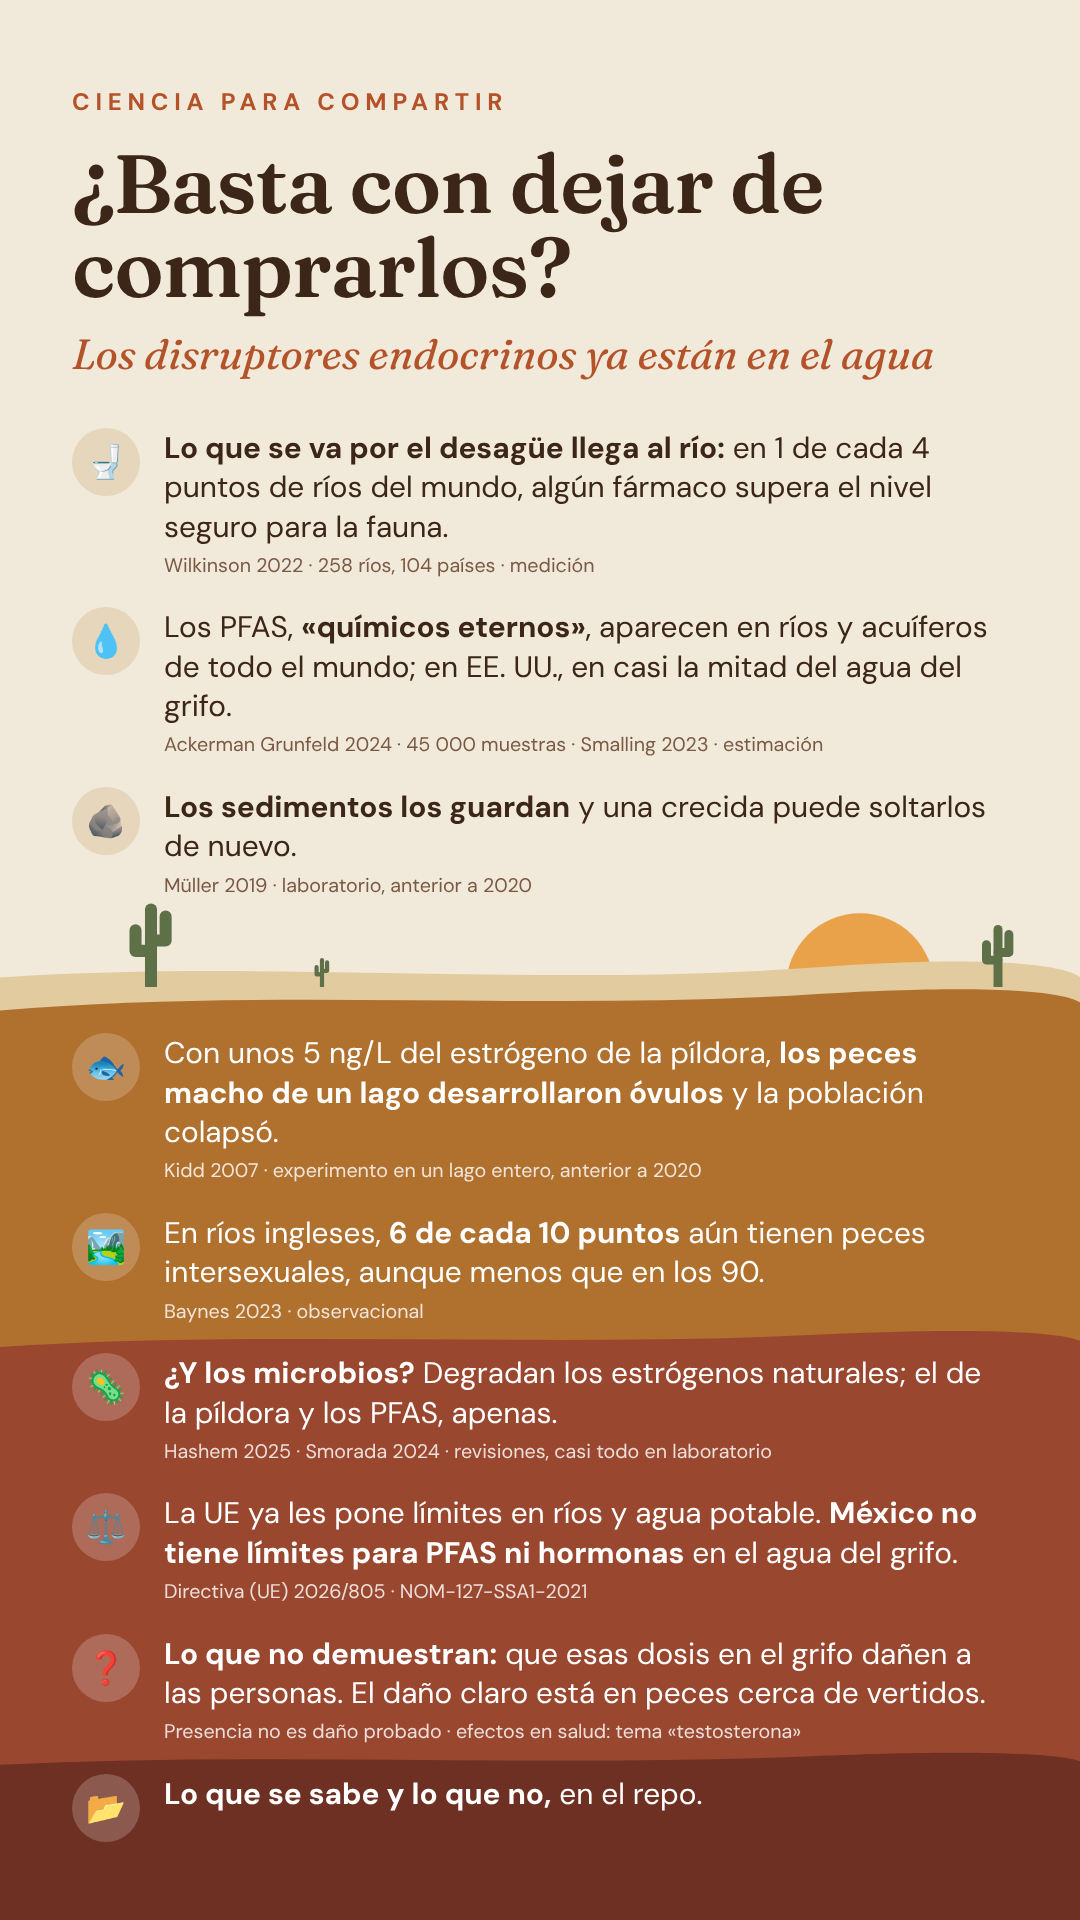
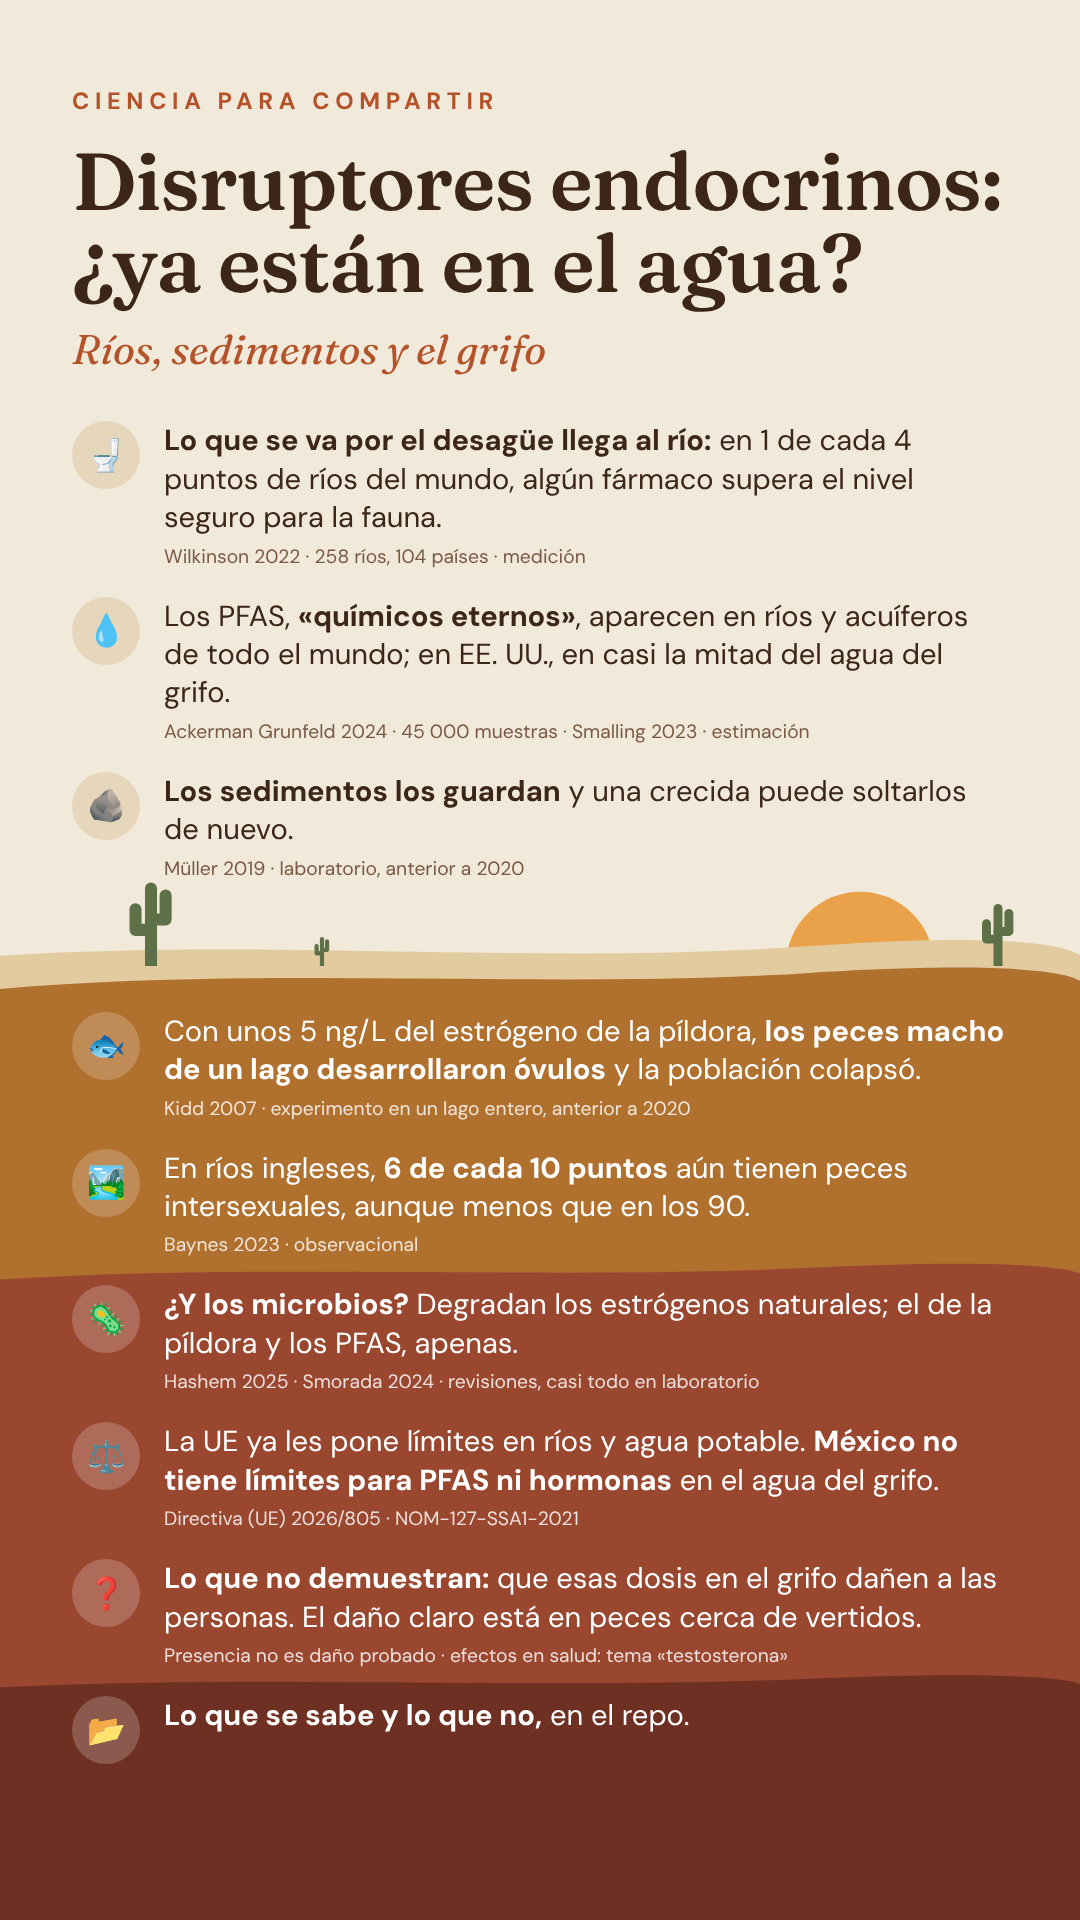
Título del tema del agua: nombra los disruptores endocrinos
«Disruptores endocrinos: ¿ya están en el agua?» en story, página de fuentes,
categoría, README y enlace desde el tema de salud (ES/EN/FR).

Claude-Session: https://claude.ai/code/session_01FjDMT77xfbXztiX46VBknY

Changed region(s): [[0.0, 0.0312, 1.0, 0.9688], [0.0611, 0.3125, 0.1222, 0.375]]

diff --git a/ciencia-ambiente/disruptores-agua/index.html b/ciencia-ambiente/disruptores-agua/index.html
@@ -27,7 +27,7 @@
         <button type="button" id="btn-fr" data-set="fr" aria-pressed="false">FR</button>
       </div>
     </div>
-    <h1><span class="es">¿Basta con dejar de comprarlos? <em>Las fuentes</em></span><span class="en">Is it enough to stop buying them? <em>The sources</em></span><span class="fr">Suffit-il d’arrêter de les acheter&nbsp;? <em>Les sources</em></span></h1>
+    <h1><span class="es">Disruptores endocrinos: ¿ya están en el agua? <em>Las fuentes</em></span><span class="en">Endocrine disruptors: are they already in the water? <em>The sources</em></span><span class="fr">Perturbateurs endocriniens&nbsp;: sont-ils déjà dans l’eau&nbsp;? <em>Les sources</em></span></h1>
     <p class="lede"><span class="es">Aunque dejes de comprar productos con disruptores endocrinos, lo que ya se usó sigue en ríos, sedimentos y agua potable. Aquí están los estudios detrás de cada idea de la story, qué tipo de evidencia es cada uno y lo que no demuestra. Cómo afectan a las personas lo contamos en <a href="../../ciencia-salud/disruptores-endocrinos/">¿Por qué hay una caída de la testosterona?</a></span><span class="en">Even if you stop buying products with endocrine disruptors, what has already been used stays in rivers, sediments and drinking water. Here are the studies behind each idea in the story, what kind of evidence each one is and what it doesn’t show. How they affect people is covered in <a href="../../ciencia-salud/disruptores-endocrinos/#en">Why is testosterone falling?</a></span><span class="fr">Même si vous arrêtez d’acheter des produits contenant des perturbateurs endocriniens, ce qui a déjà été utilisé reste dans les rivières, les sédiments et l’eau potable. Voici les études derrière chaque idée de la story, le type de preuve de chacune et ce qu’elle ne montre pas. Leurs effets sur l’humain sont traités dans <a href="../../ciencia-salud/disruptores-endocrinos/#fr">Pourquoi la testostérone baisse-t-elle&nbsp;?</a></span></p>
     <p class="reviewed"><span class="es">Evidencia revisada: oct 2026</span><span class="en">Evidence reviewed: Oct 2026</span><span class="fr">Preuves revues : oct. 2026</span></p>
   </header>
@@ -142,7 +142,7 @@
 
   <section>
     <div class="frame"><h2><span class="es">La story</span><span class="en">The story</span><span class="fr">La story</span></h2></div>
-    <img class="preview" src="preview.png" alt="Las stories en español, inglés y francés: ¿Basta con dejar de comprarlos? / Is it enough to stop buying them? / Suffit-il d’arrêter de les acheter ?" width="1600" height="900" loading="lazy">
+    <img class="preview" src="preview.png" alt="Las stories en español, inglés y francés: Disruptores endocrinos: ¿ya están en el agua? / Endocrine disruptors: are they already in the water? / Perturbateurs endocriniens : sont-ils déjà dans l’eau ?" width="1600" height="900" loading="lazy">
   </section>
 
   <footer>

diff --git a/ciencia-salud/disruptores-endocrinos/index.html b/ciencia-salud/disruptores-endocrinos/index.html
@@ -191,7 +191,7 @@
     </table>
     </div>
     <p class="note"><span class="es">En México, las cohortes ELEMENT y PROGRESS (Ciudad de México) han asociado la exposición prenatal a ftalatos con asma, función pulmonar y conducta infantil; en Brasil, la cohorte PIPA (Río de Janeiro) asoció un mayor consumo de ultraprocesados en el embarazo con más PFAS en el recién nacido. Son estudios observacionales.</span><span class="en">In Mexico, the ELEMENT and PROGRESS cohorts (Mexico City) have linked prenatal phthalate exposure to asthma, lung function and child behaviour; in Brazil, the PIPA cohort (Rio de Janeiro) linked higher ultra-processed food intake in pregnancy to more PFAS in newborns. These are observational studies.</span><span class="fr">Au Mexique, les cohortes ELEMENT et PROGRESS (Mexico) ont associé l’exposition prénatale aux phtalates à l’asthme, à la fonction pulmonaire et au comportement de l’enfant ; au Brésil, la cohorte PIPA (Rio de Janeiro) a associé une plus forte consommation d’ultra-transformés pendant la grossesse à davantage de PFAS chez le nouveau-né. Ce sont des études observationnelles.</span></p>
-    <p class="note"><span class="es">¿Y lo que ya está en ríos, sedimentos y agua potable? Lo contamos en <a href="../../ciencia-ambiente/disruptores-agua/">¿Basta con dejar de comprarlos?</a></span><span class="en">And what’s already in rivers, sediments and drinking water? See <a href="../../ciencia-ambiente/disruptores-agua/#en">Is it enough to stop buying them?</a></span><span class="fr">Et ce qui est déjà dans les rivières, les sédiments et l’eau potable ? Voir <a href="../../ciencia-ambiente/disruptores-agua/#fr">Suffit-il d’arrêter de les acheter&nbsp;?</a></span></p>
+    <p class="note"><span class="es">¿Y lo que ya está en ríos, sedimentos y agua potable? Lo contamos en <a href="../../ciencia-ambiente/disruptores-agua/">Disruptores endocrinos: ¿ya están en el agua?</a></span><span class="en">And what’s already in rivers, sediments and drinking water? See <a href="../../ciencia-ambiente/disruptores-agua/#en">Endocrine disruptors: are they already in the water?</a></span><span class="fr">Et ce qui est déjà dans les rivières, les sédiments et l’eau potable ? Voir <a href="../../ciencia-ambiente/disruptores-agua/#fr">Perturbateurs endocriniens&nbsp;: sont-ils déjà dans l’eau&nbsp;?</a></span></p>
   </section>
 
   <section>

diff --git a/ciencia-ambiente/index.html b/ciencia-ambiente/index.html
@@ -35,7 +35,7 @@
     <a class="topic" href="disruptores-agua/">
       <img src="disruptores-agua/story-es.png" alt="" width="132" height="235">
       <div>
-        <h2><span class="es">¿Basta con dejar de comprarlos?</span><span class="en">Is it enough to stop buying them?</span><span class="fr">Suffit-il d’arrêter de les acheter&nbsp;?</span></h2>
+        <h2><span class="es">Disruptores endocrinos: ¿ya están en el agua?</span><span class="en">Endocrine disruptors: are they already in the water?</span><span class="fr">Perturbateurs endocriniens&nbsp;: sont-ils déjà dans l’eau&nbsp;?</span></h2>
         <p><span class="es">Disruptores endocrinos en ríos, sedimentos y agua potable: PFAS, estrógenos de la píldora, peces feminizados, qué pueden hacer los microbios y cómo se regula el agua en Europa y América. 10 referencias.</span><span class="en">Endocrine disruptors in rivers, sediments and drinking water: PFAS, the pill’s estrogen, feminized fish, what microbes can do and how water is regulated in Europe and the Americas. 10 references.</span><span class="fr">Perturbateurs endocriniens dans les rivières, les sédiments et l’eau potable : PFAS, œstrogène de la pilule, poissons féminisés, ce que peuvent faire les microbes et comment l’eau est réglementée en Europe et en Amérique. 10 références.</span></p>
       </div>
     </a>

diff --git a/README.md b/README.md
@@ -25,7 +25,7 @@
 
 | Fecha · Date | Tema · Topic · Sujet | Fuentes · Sources |
 |---|---|---|
-| 2026-10 | ¿Basta con dejar de comprarlos? · Is it enough to stop buying them? · Suffit-il d’arrêter de les acheter ? | [disruptores-agua](https://antoniopuriel.github.io/cienciaparacompartir/ciencia-ambiente/disruptores-agua/) · [EN](https://antoniopuriel.github.io/cienciaparacompartir/ciencia-ambiente/disruptores-agua/#en) · [FR](https://antoniopuriel.github.io/cienciaparacompartir/ciencia-ambiente/disruptores-agua/#fr) |
+| 2026-10 | Disruptores endocrinos: ¿ya están en el agua? · Endocrine disruptors: are they already in the water? · Perturbateurs endocriniens : sont-ils déjà dans l’eau ? | [disruptores-agua](https://antoniopuriel.github.io/cienciaparacompartir/ciencia-ambiente/disruptores-agua/) · [EN](https://antoniopuriel.github.io/cienciaparacompartir/ciencia-ambiente/disruptores-agua/#en) · [FR](https://antoniopuriel.github.io/cienciaparacompartir/ciencia-ambiente/disruptores-agua/#fr) |
 
 ---
 
